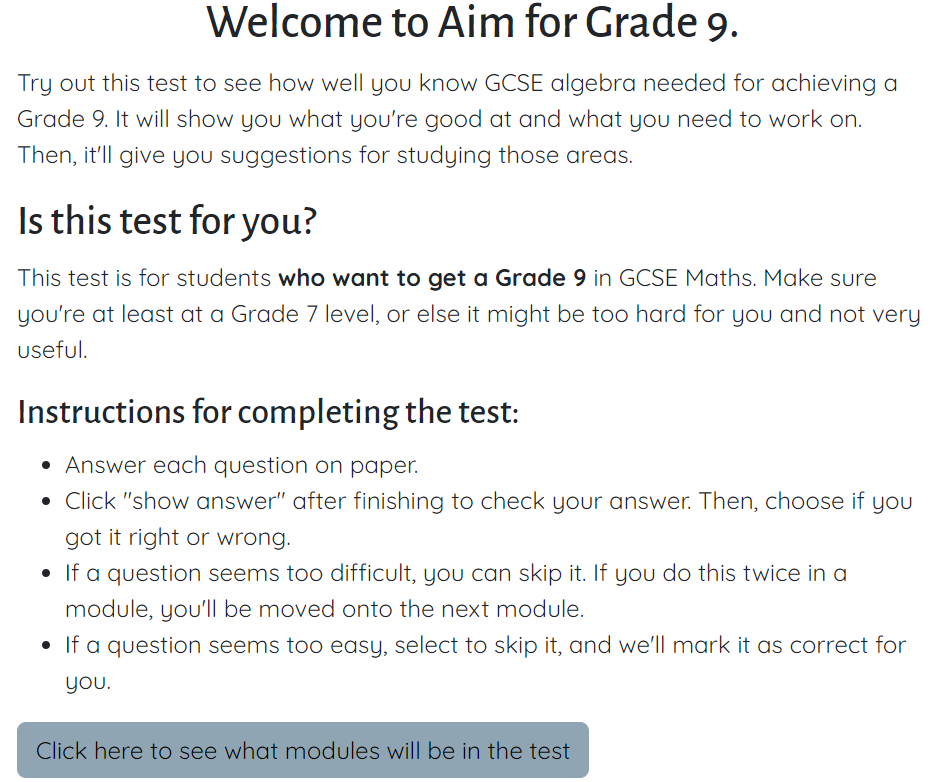
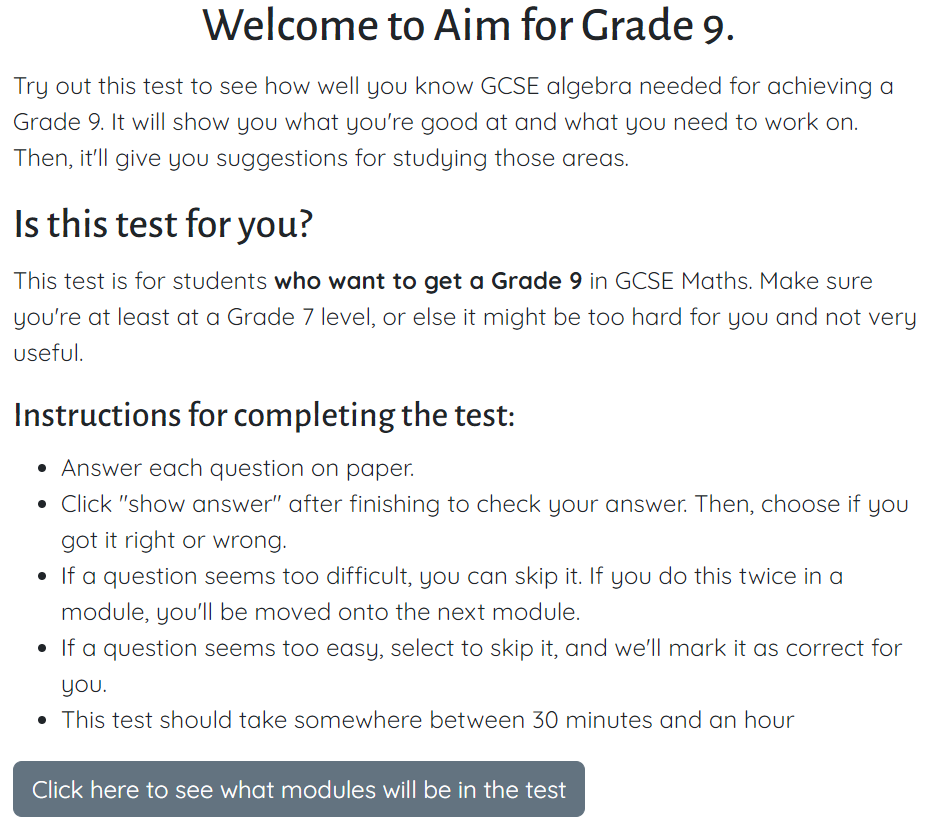
docs: update features with new intro text, delete unused features images

diff --git a/README.md b/README.md
@@ -266,7 +266,7 @@ This is a collapsible button that will show all the modules currently in the tes
 
 On a small screen: 
 
-![Image of the collapsible button opened](./assets/images/readme/features/module-list-sm.[png])
+![Image of the collapsible button opened](./assets/images/readme/features/module-list-sm.png)
 
 On a larger screen: 
 
